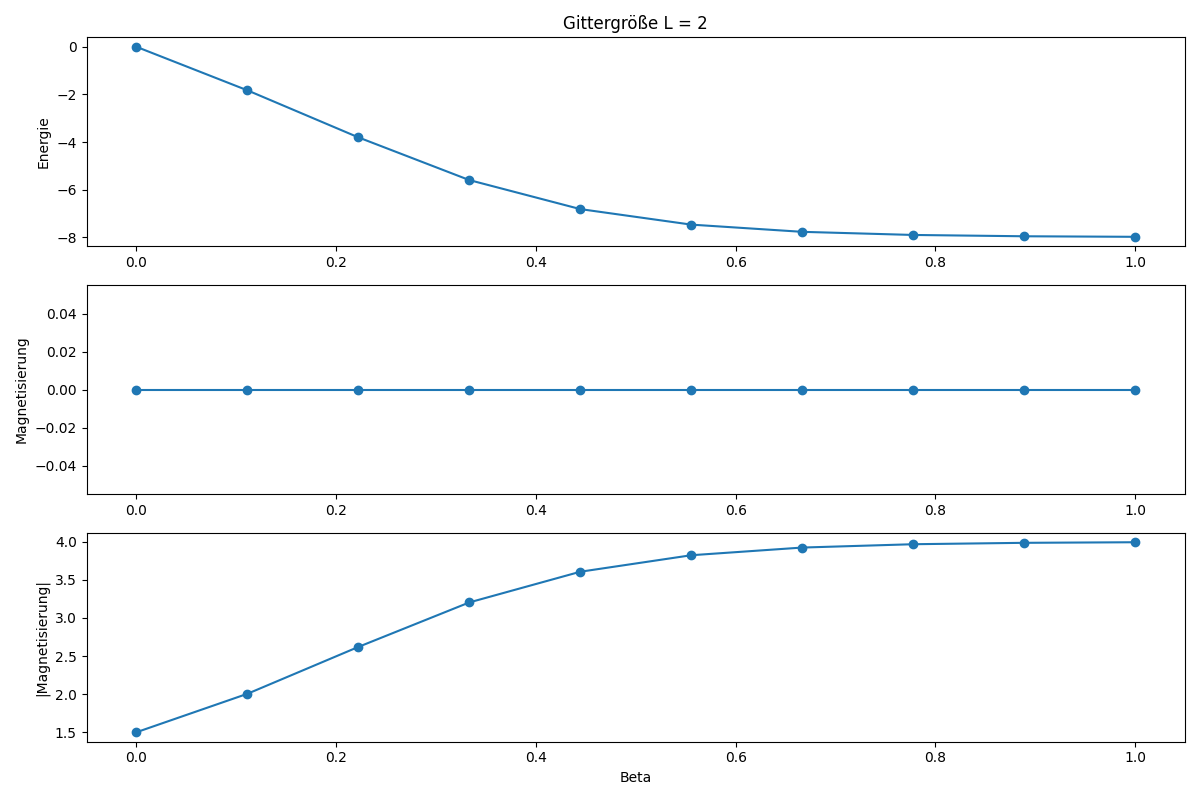
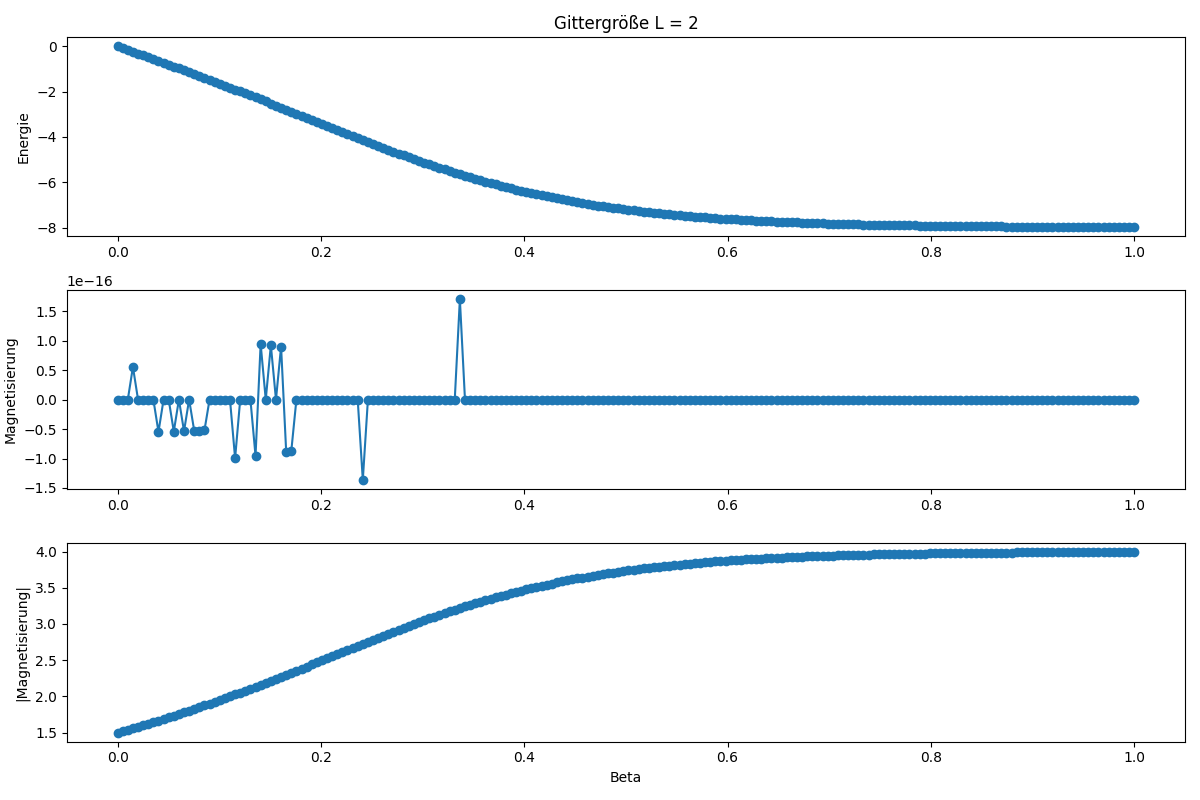
A2 direct sum looks good

diff --git a/04_Ising/Aufgabe_2/A2_direct_sum.py b/04_Ising/Aufgabe_2/A2_direct_sum.py
@@ -42,7 +42,7 @@ def ising_exact(L, beta_values):
 
 # Parameter
 grid_sizes = [2, 3, 4]
-beta_values = np.linspace(0, 1, 10)
+beta_values = np.linspace(0, 1, 200)
 
 # Berechnung
 data = {L: ising_exact(L, beta_values) for L in grid_sizes}
@@ -55,32 +55,28 @@ for L, results in data.items():
         
 
 # Plotting the results
-for L, results in data.items():
+colors = ['r', 'g', 'b']
+plt.figure(figsize=(12, 8))
+
+for idx, (L, results) in enumerate(data.items()):
     betas = list(results.keys())
     energies = [results[beta]['E'] for beta in betas]
     magnetizations = [results[beta]['M'] for beta in betas]
     abs_magnetizations = [results[beta]['|M|'] for beta in betas]
 
-    print(f"L = {L} M:", [float(m) for m in abs_magnetizations])
-    print(f"L = {L} E:", [float(m) for m in energies])
-
-
-    plt.figure(figsize=(12, 8))
-
-    plt.subplot(3, 1, 1)
-    plt.plot(betas, energies, marker='o')
-    plt.title(f'Gittergröße L = {L}')
+    plt.subplot(2, 1, 1)
+    plt.plot(betas, energies, marker='o', color=colors[idx], label=f'L = {L}')
     plt.ylabel('Energie')
 
-    plt.subplot(3, 1, 2)
-    plt.plot(betas, magnetizations, marker='o')
-    plt.ylabel('Magnetisierung')
-
-    plt.subplot(3, 1, 3)
-    plt.plot(betas, abs_magnetizations, marker='o')
+    plt.subplot(2, 1, 2)
+    plt.plot(betas, abs_magnetizations, marker='o', color=colors[idx], label=f'L = {L}')
     plt.xlabel('Beta')
     plt.ylabel('|Magnetisierung|')
 
-    plt.tight_layout()
-    plt.savefig(f'04_Ising/Aufgabe_2/plots/L_{L}_plot.png')
-    plt.close()
+for i in range(2):
+    plt.subplot(2, 1, i+1)
+    plt.legend()
+
+plt.tight_layout()
+plt.savefig('04_Ising/Aufgabe_2/plots/combined_plot.png')
+plt.close()

diff --git a/04_Ising/Aufgabe_2/analytical.py b/04_Ising/Aufgabe_2/analytical.py
@@ -1,5 +1,6 @@
 import numpy as np
 import scipy.integrate as integrate
+import matplotlib.pyplot as plt
 
 def energy_density_analytical(beta):
     """Berechnet die Energiedichte für das 2D-Ising-Modell analytisch."""
@@ -12,7 +13,7 @@ def energy_density_analytical(beta):
     
     K_xi, _ = integrate.quad(integrand, 0, np.pi/2, args=(xi,))
     
-    energy_density = 2 - cosh_beta / (1 / tanh_beta) * (1 + (2 * tanh_beta**2 - 1) * 2 / np.pi * K_xi)
+    energy_density = - cosh_beta / (1 / tanh_beta) * (1 + (2 * tanh_beta**2 - 1) * 2 / np.pi * K_xi)
     return energy_density
 
 def magnetization_analytical(beta):
@@ -24,10 +25,20 @@ def magnetization_analytical(beta):
 
 # Parameter
 betas = np.linspace(0, 1, 20)
+energies = np.array([])
+magnetizations = np.array([])
 
 # Berechnung und Ausgabe
 print("Analytische Vorhersagen für das 2D-Ising-Modell:")
 for beta in betas:
     energy = energy_density_analytical(beta)
     magnetization = magnetization_analytical(beta)
+    energies = np.append(energies, energy)
+    magnetizations = np.append(magnetizations, magnetization)
     print(f"  beta = {beta:.2f}, Energie = {energy:.4f}, Magnetisierung = {magnetization:.4f}")
+
+plt.plot(betas, energies, label="Energiedichte")
+plt.plot(betas, magnetizations, label="Magnetisierung")
+plt.xlabel(r"$\beta$")
+plt.legend()
+plt.show()
